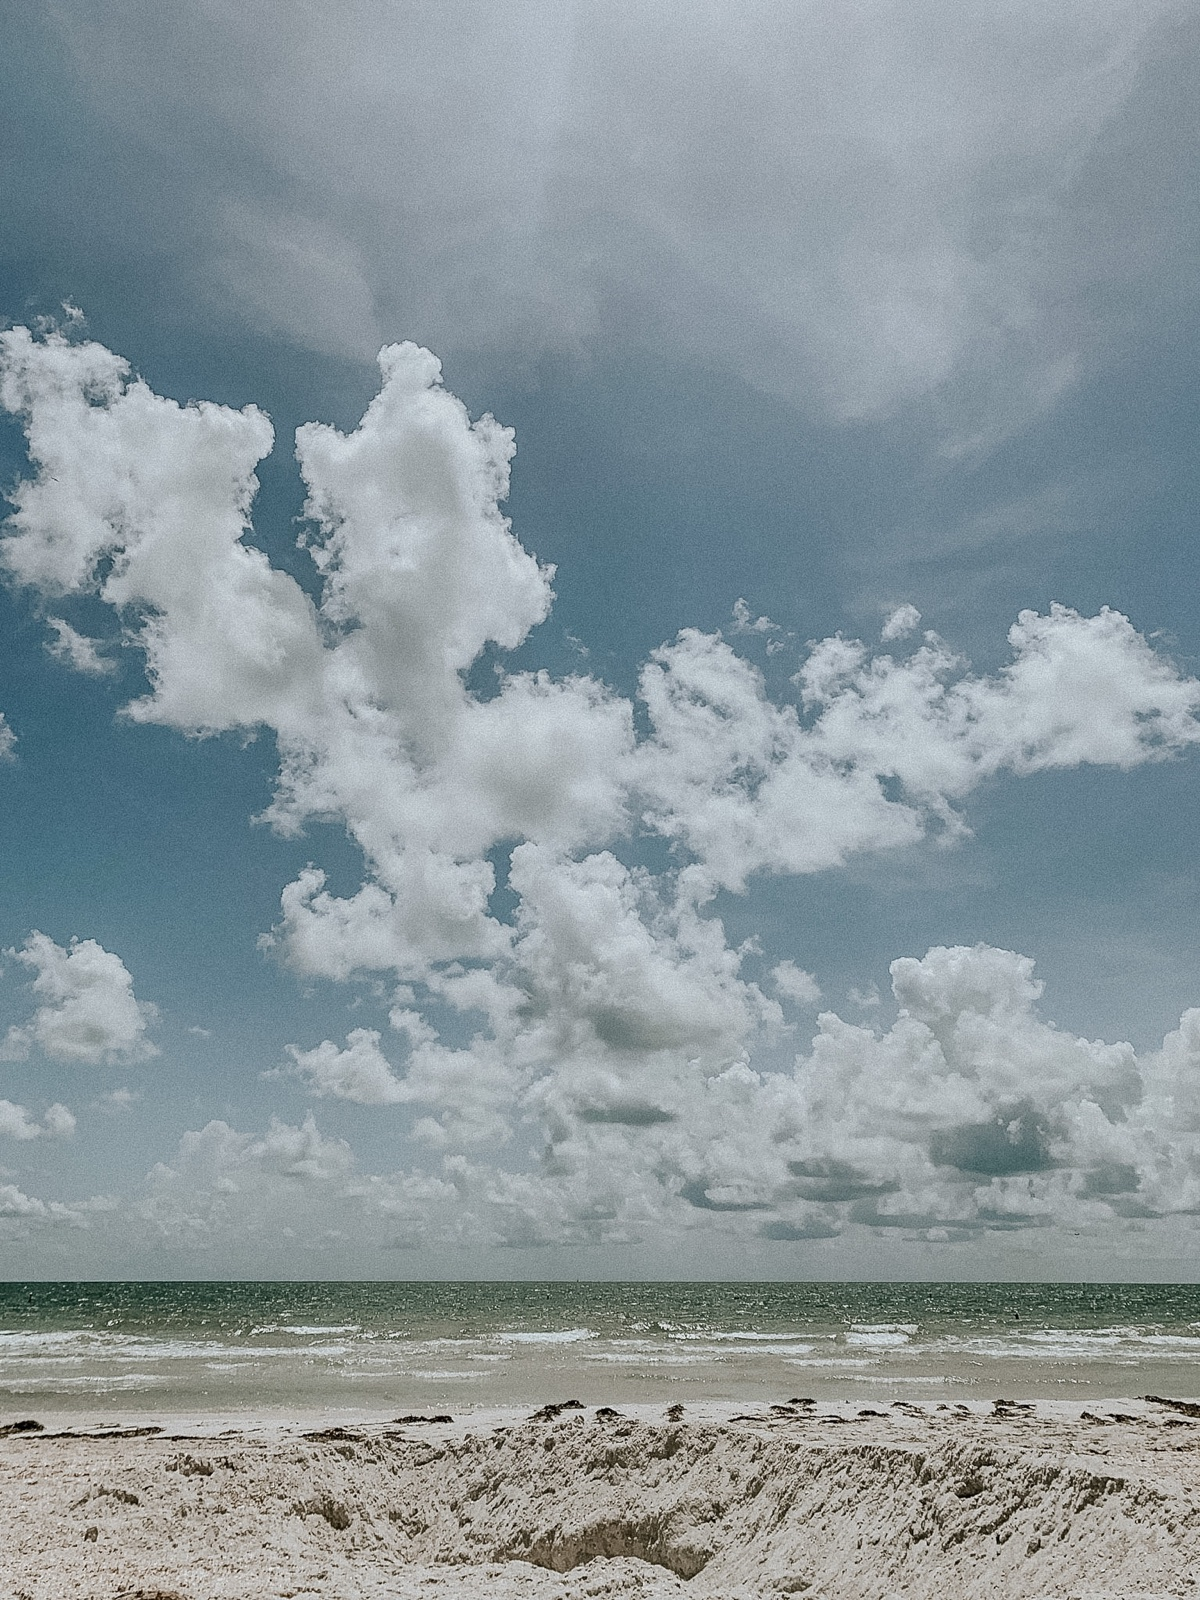
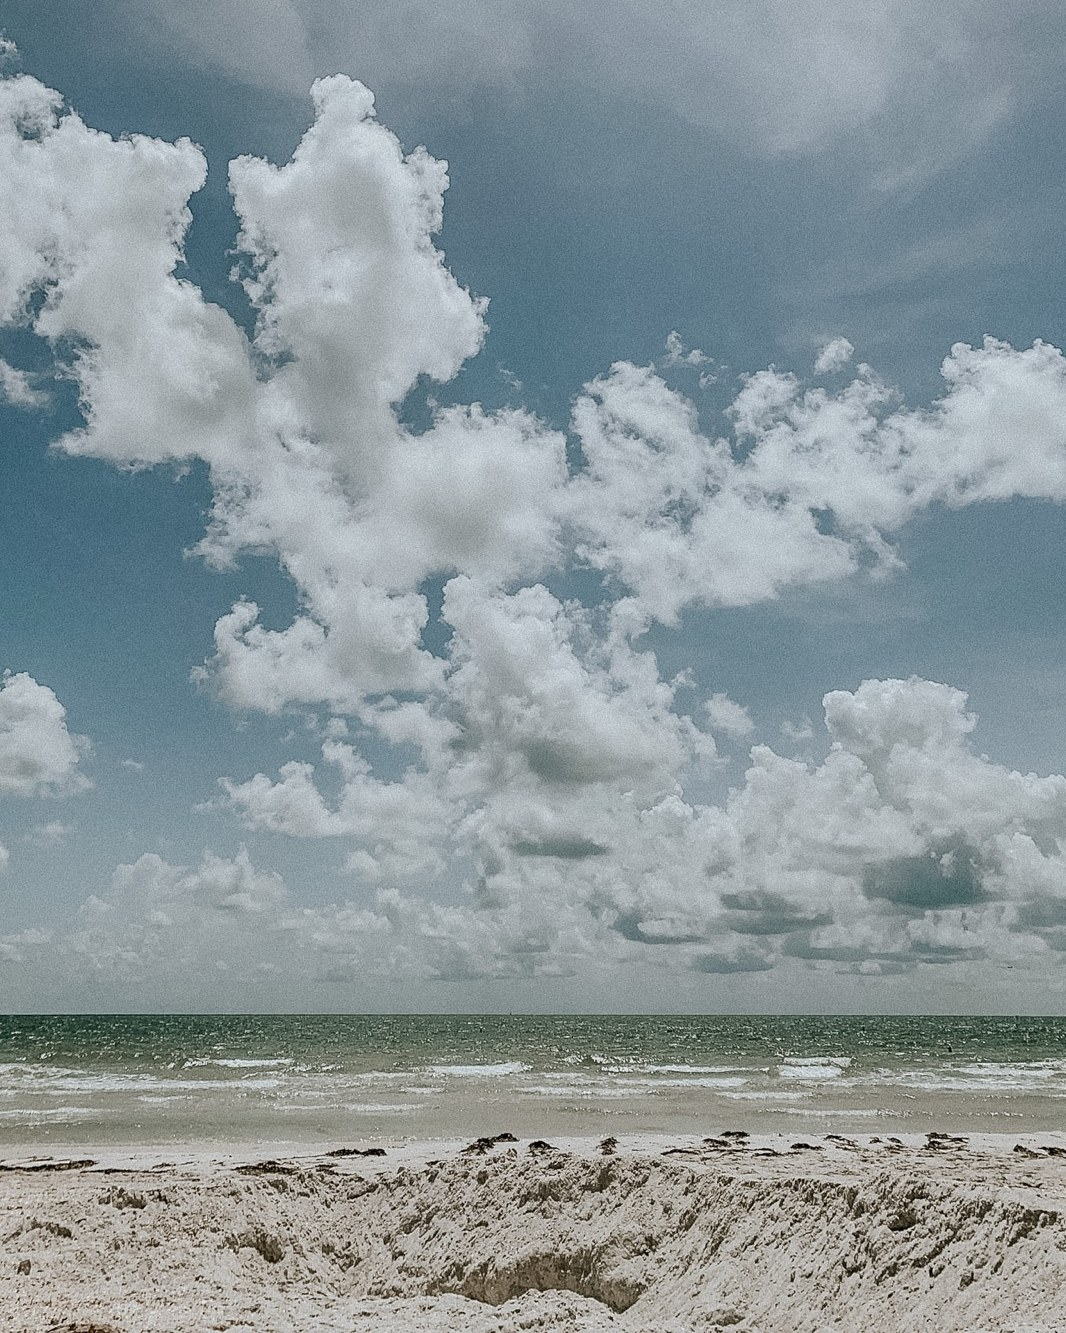
Prints chooser: switch Posters/Limited order; align beach horizons exactly
Elena, 2026-07-21:
- Card order swapped to Posters, The Limited Edition, Postcards.
- Cumulus image re-cropped (baked 4:5) so its beach horizon sits at 0.76
  of the frame, exactly matching the Posters/Nauset sea horizon
  (measured 0.76 == 0.76). Dropped the object-position hack.
- The Limited Edition (doorway) is a vertical subject with no sea
  horizon; its dominant line sits low (~0.90). Left as-is since Elena
  likes the doorway.

diff --git a/site/prints.html b/site/prints.html
@@ -218,6 +218,14 @@ footer .cr .script{font-size:18px;color:var(--gold);}
   <div class="choose-grid">
 
     <article class="ccard">
+      <a class="ph" href="posters.html"><img src="img/posters/alone-with-my-thoughts-on-nauset.jpg" alt="A woman standing alone on the rocks above the sea under a dramatic sky, Nauset"></a>
+      <h2 class="serif">Posters</h2>
+      <div class="price">Open edition</div>
+      <p>The photographs, printed big and printed to keep. Archival matte, sorted by where they were taken.</p>
+      <a class="cta" href="posters.html">Browse the posters</a>
+    </article>
+
+    <article class="ccard">
       <!-- Name LOCKED by Elena 2026-07-20: "The Limited Edition". Replaces the retired
            "Vanishing Prints" page title and the interim "Fine Art" working direction. -->
       <a class="ph" href="limited-edition.html"><span class="flag">September</span><img src="img/athens-doorway.jpg" alt="A doorway in Athens"></a>
@@ -228,15 +236,7 @@ footer .cr .script{font-size:18px;color:var(--gold);}
     </article>
 
     <article class="ccard">
-      <a class="ph" href="posters.html"><img src="img/posters/alone-with-my-thoughts-on-nauset.jpg" alt="A woman standing alone on the rocks above the sea under a dramatic sky, Nauset"></a>
-      <h2 class="serif">Posters</h2>
-      <div class="price">Open edition</div>
-      <p>The photographs, printed big and printed to keep. Archival matte, sorted by where they were taken.</p>
-      <a class="cta" href="posters.html">Browse the posters</a>
-    </article>
-
-    <article class="ccard">
-      <a class="ph" href="postcards.html"><span class="flag">Coming soon</span><img src="img/stpete-beach-cumulus-dune.jpg" alt="A St. Pete beach under big cumulus clouds, dune grass in the sand" style="object-position:50% 100%"></a>
+      <a class="ph" href="postcards.html"><span class="flag">Coming soon</span><img src="img/stpete-beach-cumulus-dune.jpg" alt="A St. Pete beach under big cumulus clouds, dune grass in the sand"></a>
       <h2 class="serif">Postcards</h2>
       <div class="price">Coming soon</div>
       <p>A little light from a place I've been. Write it to your future self, or send it to someone who needs it.</p>